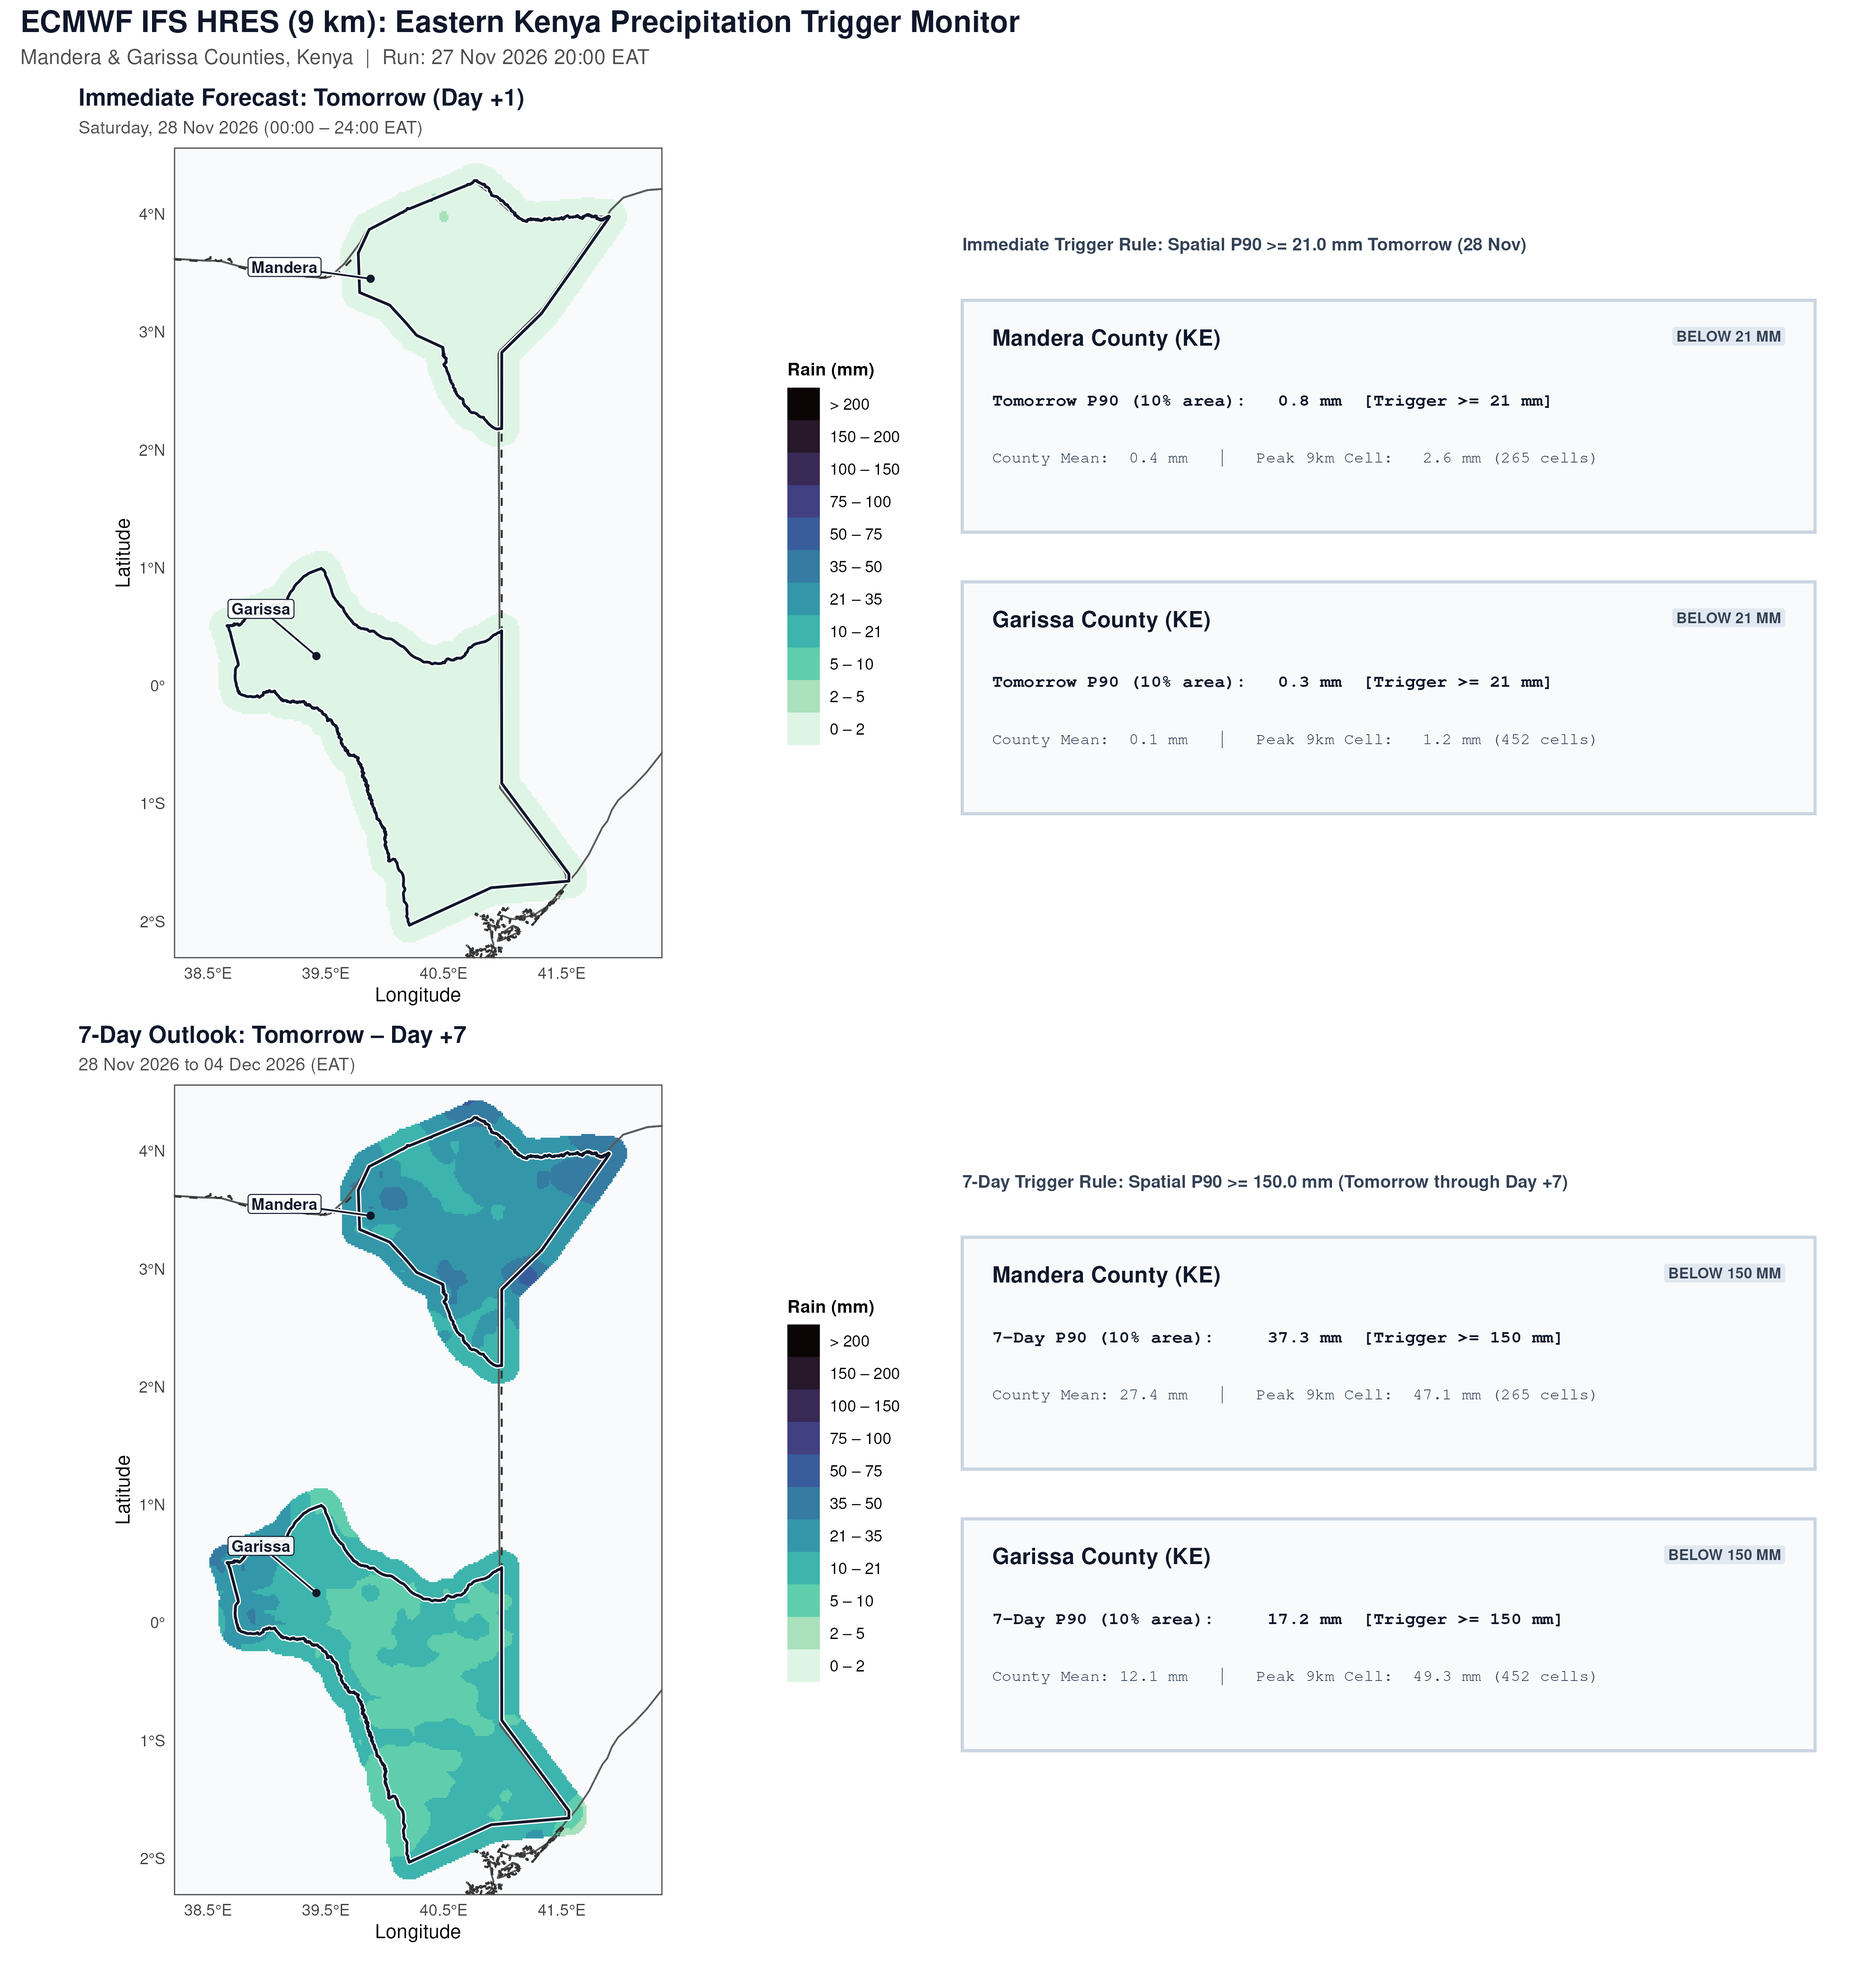
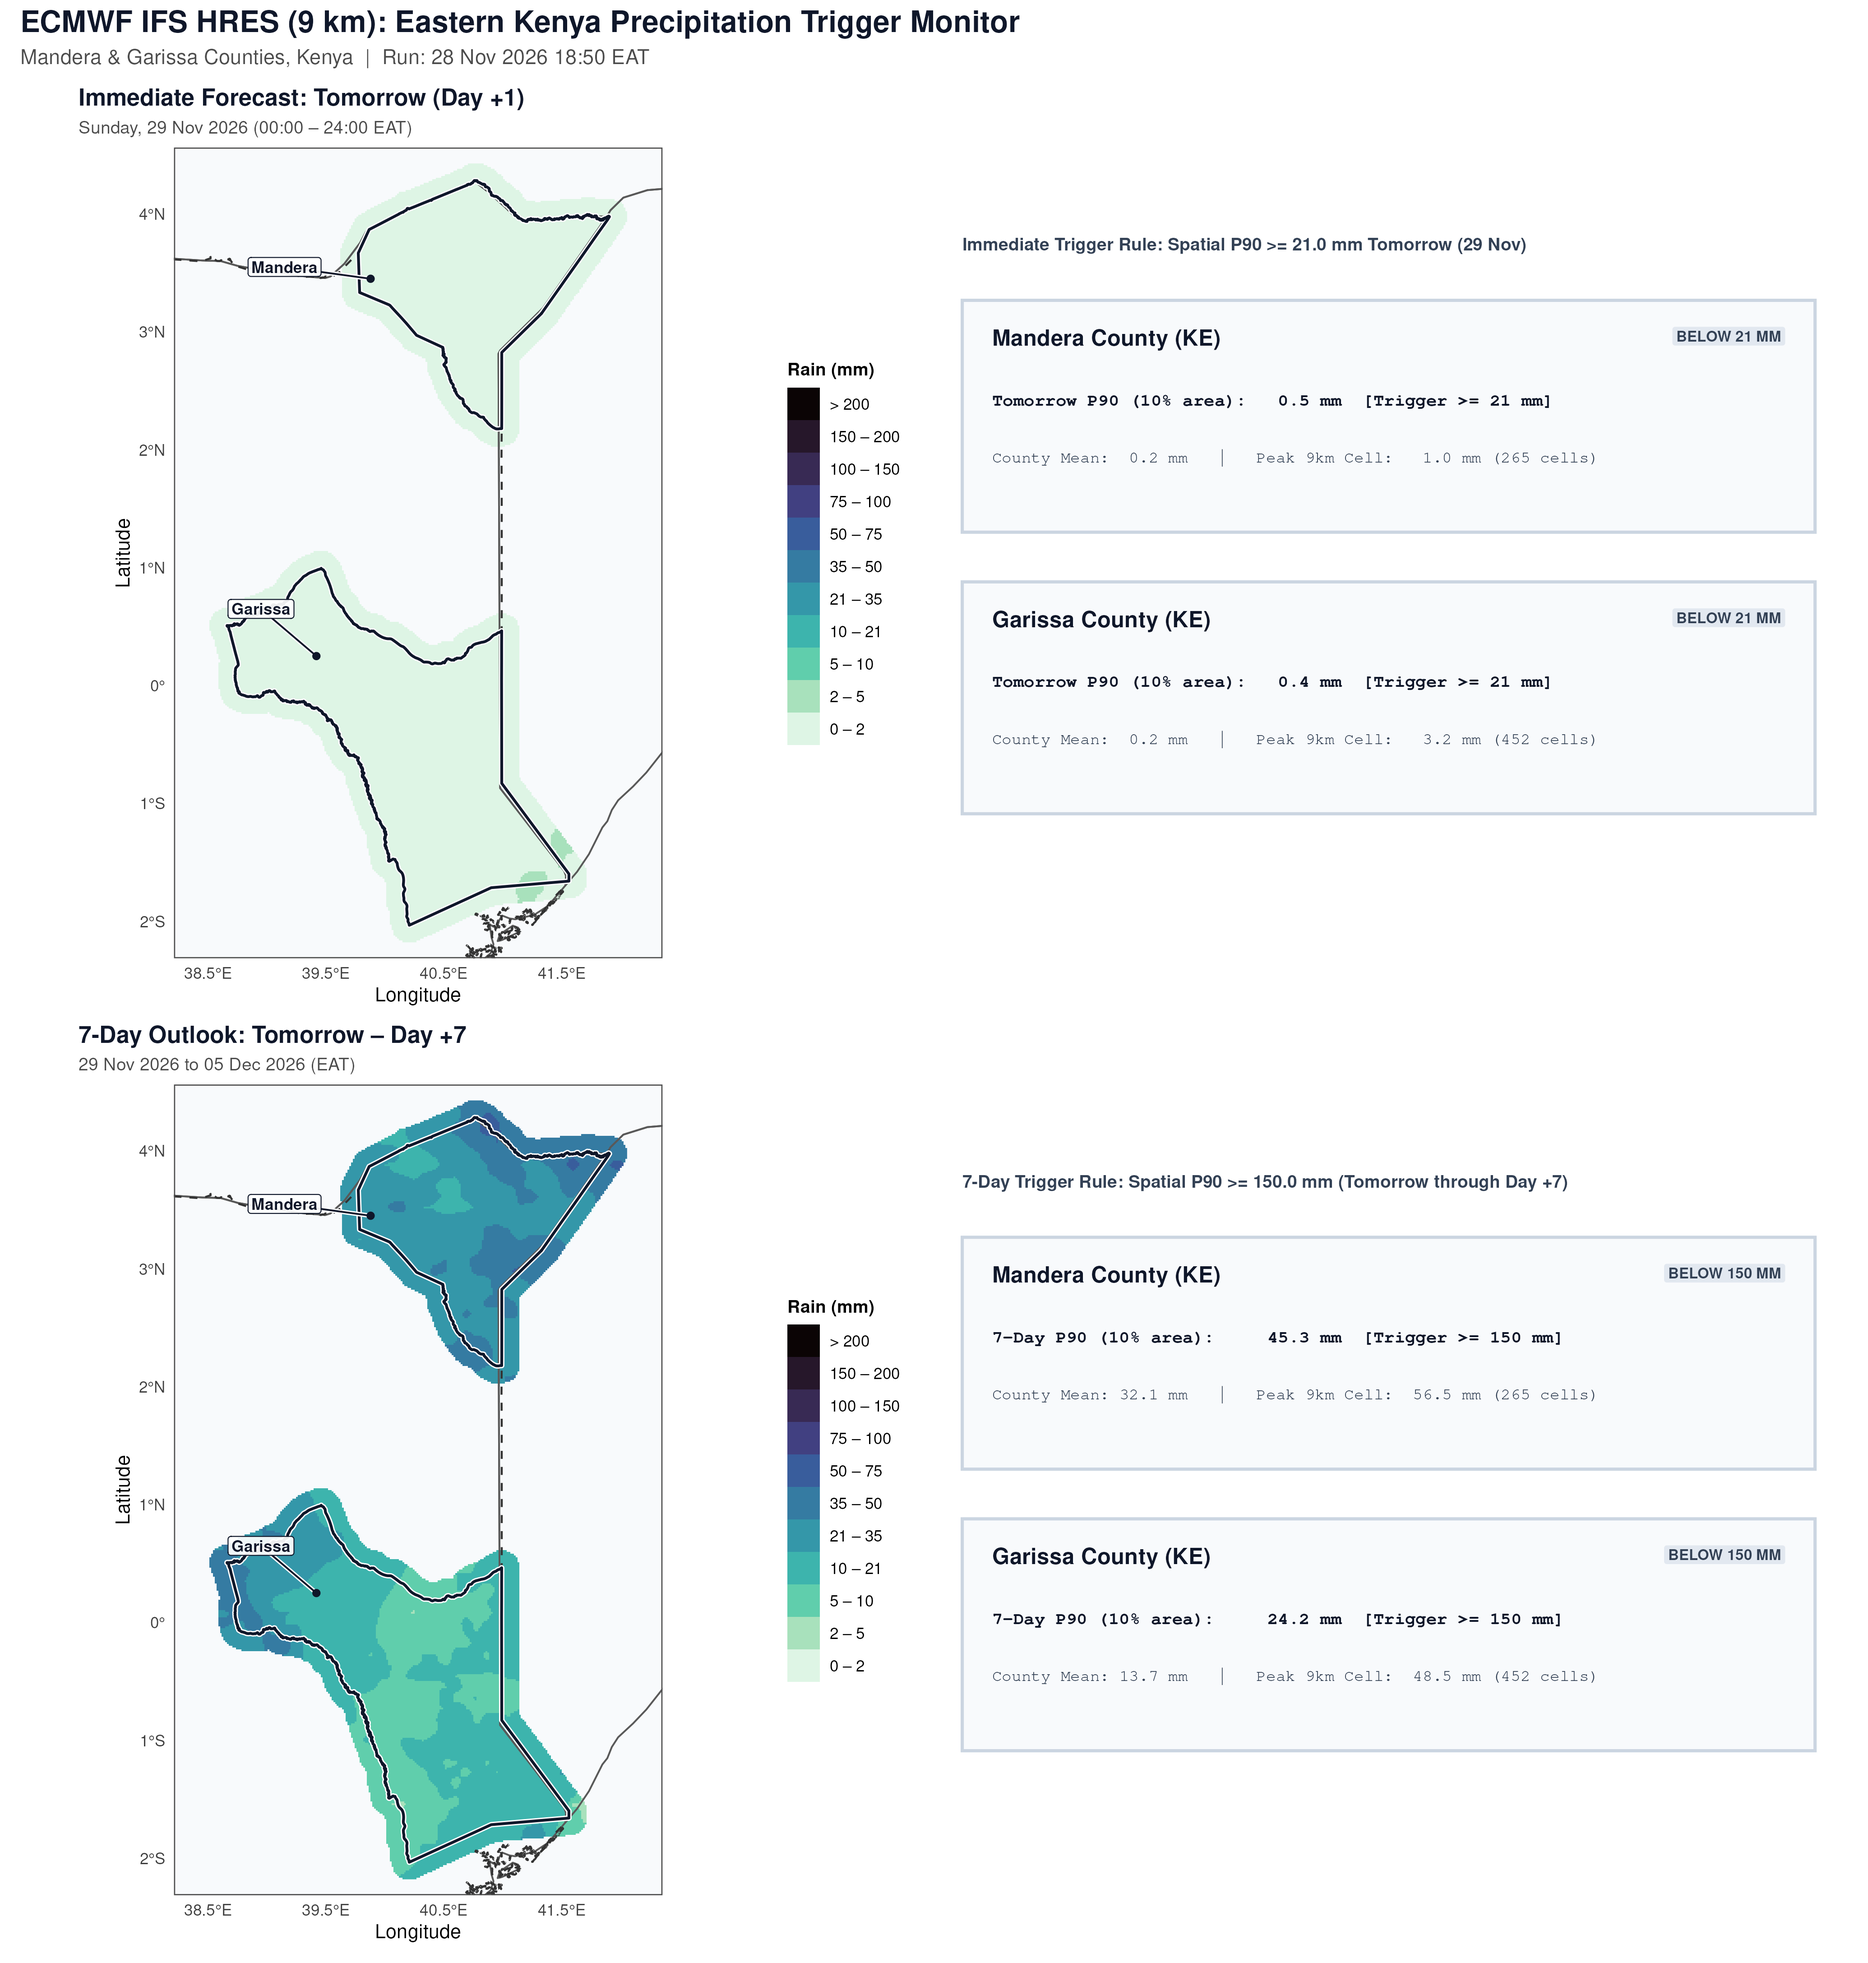
deploy: daacd3f731ed2b8d75df1fdd133b035ab1ab4faf

Changed region(s): [[0.0935, 0.7448, 0.2804, 0.931], [0.187, 0.5586, 0.3116, 0.7138], [0.2804, 0.4345, 0.3116, 0.4655]]

diff --git a/eastern_kenya/index.html b/eastern_kenya/index.html
@@ -1,1 +1,1 @@
-<!DOCTYPE html><html><head><meta charset='utf-8'><title>Eastern Kenya Trigger Monitor (Mandera &amp; Garissa)</title><style>body{font-family:sans-serif;margin:24px;background:#F8FAFC;color:#0F172A;max-width:1280px;}img{width:100%;height:auto;border:1px solid #CBD5E1;border-radius:6px;background:white;}</style></head><body><h2>Eastern Kenya (Mandera &amp; Garissa) IFS HRES Trigger Dashboard</h2><p>Counties: Mandera &amp; Garissa (KE) | Thresholds: &ge; 21 mm (Tomorrow) / &ge; 150 mm (7-Day) | Last updated: 2026-11-27 20:00 EAT (17:00 UTC) | <a href='trigger_feed.xml'>RSS Trigger Feed</a></p><img src='eastern_kenya_ifs_hres_trigger_dashboard.png?v=1795798841' alt='Eastern Kenya Forecast Dashboard'/></body></html>
+<!DOCTYPE html><html><head><meta charset='utf-8'><title>Eastern Kenya Trigger Monitor (Mandera &amp; Garissa)</title><style>body{font-family:sans-serif;margin:24px;background:#F8FAFC;color:#0F172A;max-width:1280px;}img{width:100%;height:auto;border:1px solid #CBD5E1;border-radius:6px;background:white;}</style></head><body><h2>Eastern Kenya (Mandera &amp; Garissa) IFS HRES Trigger Dashboard</h2><p>Counties: Mandera &amp; Garissa (KE) | Thresholds: &ge; 21 mm (Tomorrow) / &ge; 150 mm (7-Day) | Last updated: 2026-11-28 18:50 EAT (15:50 UTC) | <a href='trigger_feed.xml'>RSS Trigger Feed</a></p><img src='eastern_kenya_ifs_hres_trigger_dashboard.png?v=1795881056' alt='Eastern Kenya Forecast Dashboard'/></body></html>
